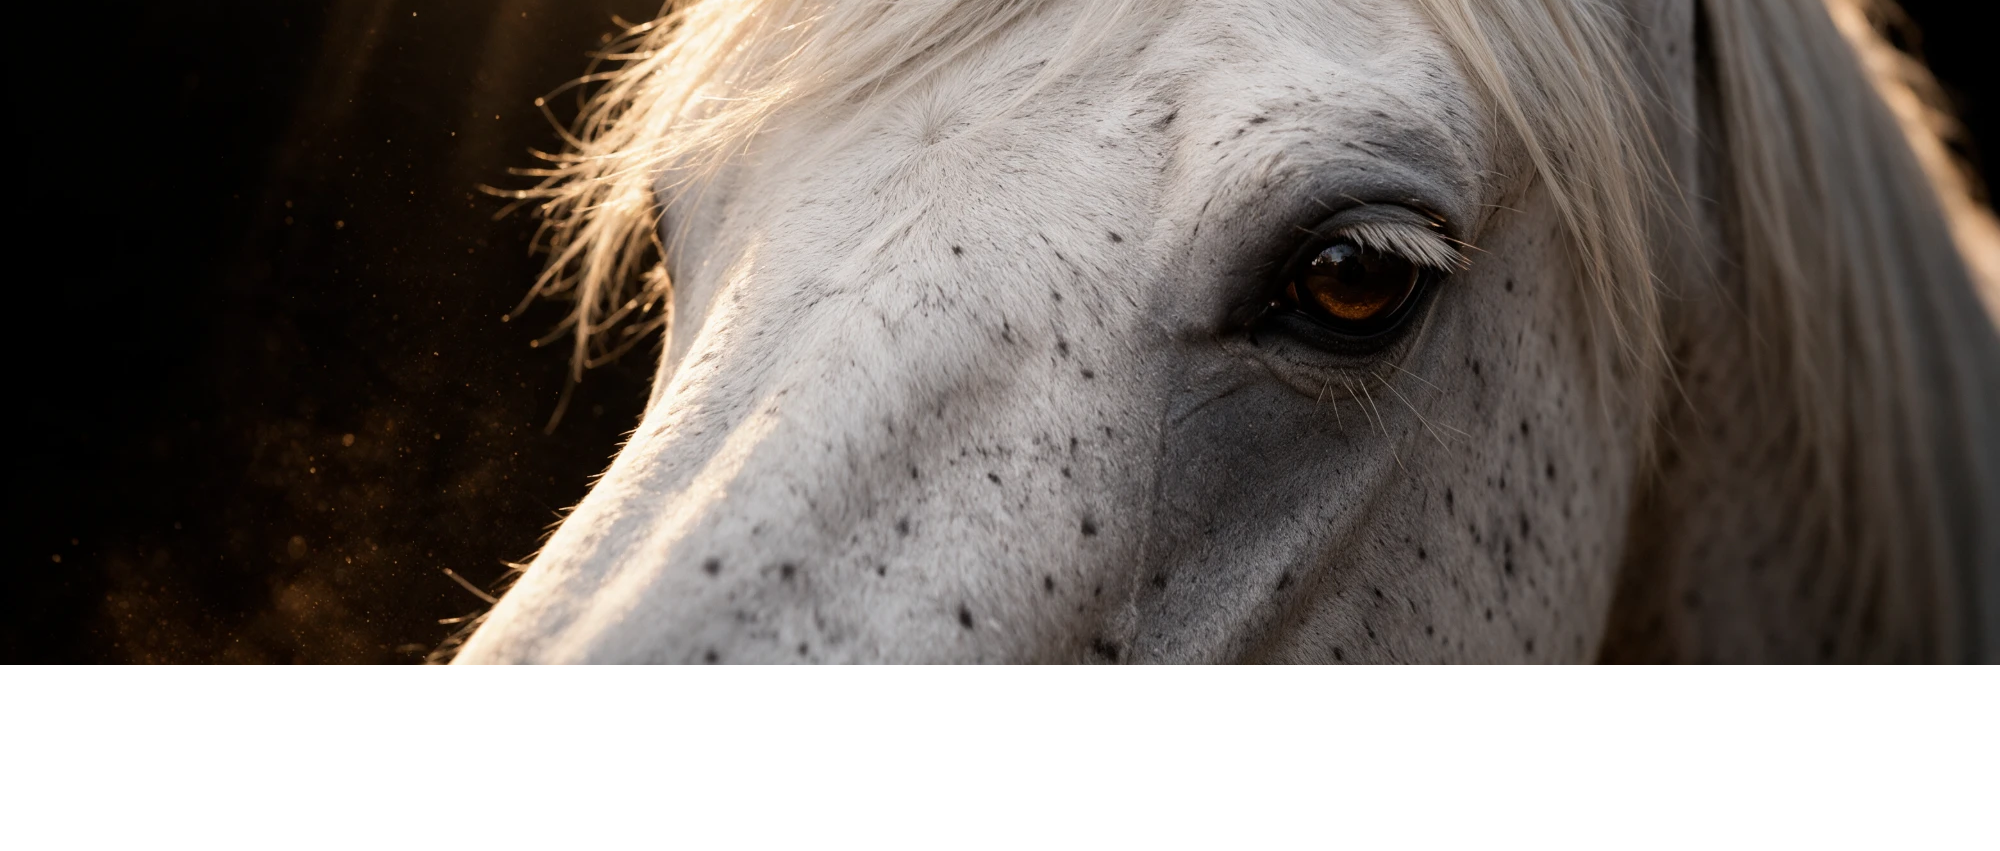
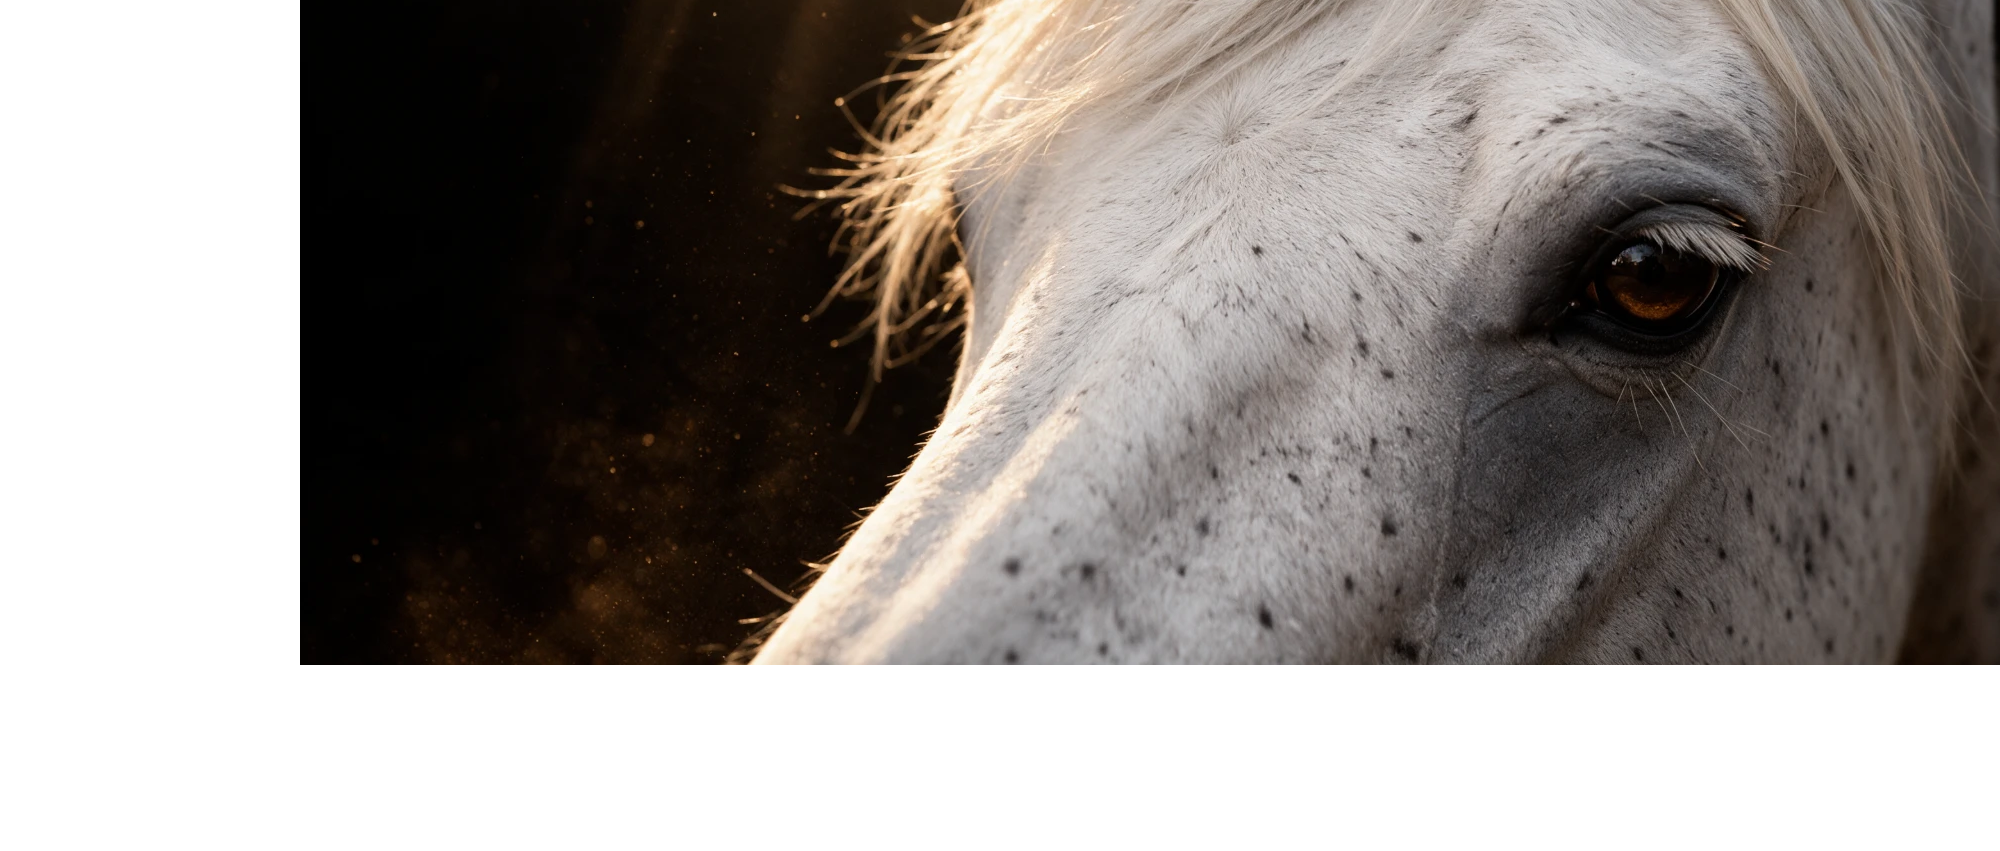
Shot 10: move the head right, keep the left half empty for titles
The reframe now also cuts 15% off the right and outpaints the same on
the left: the eye sits at 83% across, 33% down, and the left half is
empty darkness for the text. Canvas, guide, outpaint prompt, still
prompts and the motion prompt updated to match.

Claude-Session: https://claude.ai/code/session_016mJWmfYTbMSBBAqifNRpkM

diff --git a/HH_S10_STILL_PROMPT.md b/HH_S10_STILL_PROMPT.md
@@ -4,22 +4,22 @@ Save the result as **`HH_S10_v03.png`**: the shot 10 motion prompt uses it as th
 
 v02 came out right in look but too low: a near-profile at eye height with the nostrils in frame. v03 raises the camera above his eye line and frames higher on the head, like the client reference.
 
-## Reframe the v03 result (eye on the upper third)
+## Reframe the v03 result (eye on the upper third, text space on the left)
 
-The v03 result is right in angle and look, but the eye sits at 55% down, the vertical centre. Keep the image and move the frame down instead of generating again:
+The v03 result is right in angle and look, but the eye sits at 55% down, the vertical centre, and the dark space on the left is too narrow for titles. Keep the image and move the frame instead of generating again:
 
-1. Cut **21.9%** off the top (186 px on the 2000×851 file, 252 px on a 2688×1152 original).
-2. Extend the bottom by the same amount with outpainting (Photoshop Generative Expand, or Higgsfield outpaint). `HH_S10_v03_reframe_canvas.png` is the 2000×851 frame with the top already cut and the empty strip at the bottom.
-3. The eye then sits on the upper-right third: **67.8% across, 33.4% down**. The dark upper left, the shafts and the forelock across the top all stay. `HH_S10_v03_reframe_guide.png` shows before and after on a thirds grid.
+1. Cut **21.9%** off the top and **15%** off the right (186 px and 300 px on the 2000×851 file; 252 px and 403 px on a 2688×1152 original).
+2. Extend the left and the bottom by the same amounts with outpainting (Photoshop Generative Expand, or Higgsfield outpaint). `HH_S10_v03_reframe_canvas.png` is the 2000×851 frame with the image already moved and the empty strips on the left and bottom.
+3. The eye then sits far right and one third down: **82.8% across, 33.4% down**. His head fills the right half; the left half (about 45% of the width, top to two thirds down) is empty darkness for the text. The forelock still crosses the top. `HH_S10_v03_reframe_guide.png` shows before and after, with the text space marked.
 4. Save the result as `HH_S10_v03.png`: that is the first frame for the motion prompt.
 
-Outpaint prompt for the bottom strip:
+Outpaint prompt for the left and bottom strips:
 
 ```text
-Continue the photograph downward: the bridge of the horse's nose and his cheek in the same near-white coat with fine dark freckles, the same soft low warm light falling into shadow toward the bottom edge, the grey skin below the eye continuing down, the soft focus of the lower face. To the left of the nose, the same black background with faint warm gold dust. The nostrils and muzzle stay out of frame. Seamless with the image above, same grain.
+Continue the photograph to the left and downward. On the left: the same deep black background, empty and dark, with only faint warm gold dust and the faint sun shafts continuing from the top; nothing else. Below: the bridge of the horse's nose and his cheek in the same near-white coat with fine dark freckles, the same soft low warm light falling into shadow toward the bottom edge, the soft focus of the lower face; the nostrils and muzzle stay out of frame. Seamless with the image, same grain.
 ```
 
-If you generate again instead, Options A and B below already ask for the eye on the upper-right third.
+If you generate again instead, Options A and B below already ask for this layout.
 
 ## Generate
 
@@ -30,7 +30,7 @@ Attach as reference: `HH_S10_v02.png` (the first result: horse, light, dust and 
 For an image model that edits an attached image (Nano Banana, Seedream edit, etc.), with `HH_S10_v02.png` attached:
 
 ```text
-Same photograph, same horse, same light. Move the camera up and a little closer: it now looks down at his face from above his eye line at about 30°. We see the top of his forehead under the forelock and the bridge of his nose running down to the lower-left corner; the nostrils and muzzle are out of frame below. His near eye stays razor sharp on the right third, on the upper-right third, about 67% across and 33% down (one third down from the top), a little larger in the frame. Keep everything else exactly: the near-white freckled coat, the gold rim light on the forelock, lashes and brow, the warm catch-light in the eye, the sun shafts and dust in the dark upper left, the black background, 21:9.
+Same photograph, same horse, same light. Move the camera up and a little closer: it now looks down at his face from above his eye line at about 30°. We see the top of his forehead under the forelock and the bridge of his nose running down to the lower-left corner; the nostrils and muzzle are out of frame below. His near eye stays razor sharp, far right, about 83% across and 33% down (one third down from the top), a little larger in the frame; his head fills the right half and the left half is empty darkness. Keep everything else exactly: the near-white freckled coat, the gold rim light on the forelock, lashes and brow, the warm catch-light in the eye, faint sun shafts and dust in the empty dark left half, the black background, 21:9.
 ```
 
 ## Option B — full prompt
@@ -38,7 +38,7 @@ Same photograph, same horse, same light. Move the camera up and a little closer:
 ```text
 Extreme close-up of the grey stallion's head seen from above: the camera is higher than his eye, in front of him and to his side, looking down at his face at about 30°. His head is turned slightly toward the camera, so we see the top and front of his forehead and the bridge of his nose, not a flat profile. His near eye is large and sharp; his far eye is hidden beyond the curve of his forehead.
 
-FRAME: very close: his near eye is about a tenth of the frame width and sits on the upper-right third, about 67% across and 33% down (one third down from the top). The forelock falls across his forehead and the top edge of the frame; his ears are out of frame above. From the eye, the bridge of his nose runs down to the lower-left corner and leaves the frame there; the nostrils and muzzle are out of frame below. The upper left is deep darkness with faint sun shafts and dust; his cheek and jaw turn into shadow toward the right and bottom edges.
+FRAME: very close: his near eye is about a tenth of the frame width and sits far right, about 83% across and 33% down (one third down from the top). His head fills the right half of the frame. The forelock falls across his forehead and the top edge of the frame; his ears are out of frame above. From the eye, the bridge of his nose runs down to the bottom edge left of centre; the nostrils and muzzle are out of frame below; his cheek and mane are cut by the right edge. The left half of the frame is empty deep darkness with only faint sun shafts and dust: space for titles.
 
 LENS: a 100 mm macro lens, very shallow depth of field: the eye, its lashes and the skin around it razor sharp, the lower part of his face falling into soft blur.
 
@@ -52,8 +52,8 @@ LOOK: exactly the horse, light and colour of @HH_S10_v02, only the camera is hig
 ## Notes
 
 - If the result keeps the old low angle, the attached v02 is pulling it back. Run Option B again with `HH_S10_v01.png` attached instead, or with no reference.
-- Composition: the client reference has the eye near the centre. Here it is locked on the right third, so the face crosses the frame on a diagonal and the dark upper left stays free (it is also where the client's double exposure sits).
-- Screen direction: he faces left, while shot 09 runs right. A still, close portrait reads as a new moment, so the cut works. To keep the right-facing direction instead, flip the generated still horizontally before animating it; the eye then sits on the left third, about 35% across.
+- Composition: the client reference has the eye near the centre. Here the head sits in the right half with the eye far right, so the left half stays empty for the titles (it is also where the client's double exposure sits).
+- Screen direction: he faces left, while shot 09 runs right. A still, close portrait reads as a new moment, so the cut works. To keep the right-facing direction instead, flip the generated still horizontally before animating it; the eye then sits about 17% across and the text space moves to the right half.
 
 ---
 

diff --git a/SEEDANCE_PROMPTS.md b/SEEDANCE_PROMPTS.md
@@ -27,6 +27,7 @@ One prompt per shot, written to be pasted as-is into Seedance 2.5 on Higgsfield.
 - **v10, shot 11 new still and 50 mm.** The v02 still was long-legged, but the close 35 mm lens made his head about 38% of his height, which reads as short and squat. New still `HH_S11_v03` (`HH_S11_STILL_PROMPT.md`): a 50 mm look from about 10 m, one foreleg planted straight, explicit proportions. Blend v05 keeps the same pull-out with the lens and distances scaled (11.0 m to 28.6 m): 80% of the frame height at the start, 49% at 3 s, 38% at 5 s, 28% at 8 s. Lock `HH_S11_pullout50_0001-0192`.
 - **v9, shot 11 proportions.** The first pull-out take did not start on `HH_S11_v02` and redrew him stocky: shorter, thicker legs, big hooves, a wider body. The prompt had asked for his head, chest and forelegs to read largest and his chest and shoulders to be the widest part of him, and the shared horse block says heavy neck, deep chest. Shot 11 now has its own horse block with the still's build (legs as long as the body is deep, slender cannons, small hooves) and a lock line that he only gets smaller, never shorter. Put `HH_S11_v02` in the start-frame slot, and set the duration to 8 s.
 - **v8, shot 11 pull-out.** The new still `HH_S11_v02` came out with him filling about 82% of the frame height (chest dominant, belly hidden: the client note is solved). The camera now starts on that framing and pulls away faster than he runs: 35 mm, camera 1.48 m high, from 7.9 m to 20 m (horse root) with a 1 s ease-in. He shrinks to ~50% of the frame height by 3 s, ~38% by 5 s, ~29% by 8 s. Blend v04 (`HH_S11_apply_pullout.py`), lock `HH_S11_pullout_0001-0192`.
+- **v14, shot 10 moved right for titles.** The reframe also moves him right: the eye at about 83% across and 33% down, his head in the right half, the left half empty darkness for the text.
 - **v13, shot 10 eye on the upper third.** The v03 still was reframed (top cut, bottom extended) so the eye sits on the upper-right third, about 67% across and 33% down.
 - **v12, shot 10 from above.** The camera sits above his eye line and looks down at his face at about 30°: the forehead under the forelock and the bridge of the nose in view, the nostrils out of frame, the eye on the right third (about 65% across, 40% down). New first frame `HH_S10_v03`.
 - **v11, shot 10 replaced (client).** A very close, still portrait instead of the galloping eye shot: the head turned slightly toward the camera, the near eye locked on the right third, the wind in the forelock while he slowly closes and opens his eye. New first frame `HH_S10_v02` (`HH_S10_STILL_PROMPT.md`). The shot 10 built from the shot 03 take is no longer needed.
@@ -44,7 +45,7 @@ One prompt per shot, written to be pasted as-is into Seedance 2.5 on Higgsfield.
 | 07 | Very close: two heads, he leads and the dark bay falls behind | 14 | `HH_S07_v01.png`, `HH_S07_0001-0336.mp4`, `gallop_side_ref.mp4` | 22.3 s | 1015 words / 5676 chars |
 | 08 | The turn back: shot 5 mirrored | 11 | `HH_S08_start_v01.png`, `HH_S08_v01.png`, `gallop_side_ref.mp4` | 8.3 s | 1146 words / 6416 chars |
 | 09 | Very close: head and neck, galloping | 7 | `HH_S09_v01.png`, `gallop_side_ref.mp4` | 8.3 s | 894 words / 5017 chars |
-| 10 | Very close: the eye closes and opens (client version, standing) | 8 | `HH_S10_v03` | 0.0 s | 792 words / 4365 chars |
+| 10 | Very close: the eye closes and opens (client version, standing) | 8 | `HH_S10_v03` | 0.0 s | 826 words / 4523 chars |
 | 11 | He gallops straight at the camera, head-on (wide) | 8 | `HH_S11_v03`, `HH_S11_pullout50_0001-0192.mp4`, `gallop_side_ref.mp4` | 16.3 s | 1461 words / 8217 chars |
 
 ## Shot 02 — Close dust plate (title space) — 5 s
@@ -505,7 +506,7 @@ Grey Iberian stallion, standing still: near-white coat with fine dark flea-bitte
 
 CAMERA
 Locked off on a heavy tripod above his eye line, looking down at his face at about 30°, about 18° field of view (a 100 mm macro look), very shallow focus on the eye. The frame holds still for all 8 s, with only a barely perceptible organic float.
-FRAMING: exactly the first frame: seen from above, his head turned slightly toward the camera, the top of his forehead under the forelock and the bridge of his nose in view; his near eye on the upper-right third, about 67% across and 33% down; the forelock across his forehead and the top edge; the bridge of his nose running down to the lower-left corner, soft and out of focus, the nostrils out of frame below; deep darkness with faint sun shafts in the upper left; his cheek and jaw turning into shadow toward the right and bottom edges.
+FRAMING: exactly the first frame: seen from above, his head turned slightly toward the camera, the top of his forehead under the forelock and the bridge of his nose in view; his head fills the right half of the frame, his near eye far right, about 83% across and 33% down; the forelock across his forehead and the top edge; the bridge of his nose running down to the bottom edge left of centre, soft and out of focus, the nostrils out of frame below; his cheek and the mane cut by the right edge, turning into shadow. The left half of the frame is empty deep darkness with only faint dust and faint sun shafts: space for titles.
 
 ACTION
 0.0–2.0s — The first frame comes alive: he stands still, his eye open and calm. A steady breeze from behind lifts the forelock and loose strands of the mane across the top of the frame; single hairs drift across his brow; the skin of his cheek and above his eye rises and falls with one slow breath.
@@ -530,9 +531,9 @@ SOUND
 Only: a soft wind, one slow calm breath, the faint hiss of drifting sand. No music, no voices.
 
 KEEP CONSISTENT
-- He stands still: his head stays in the same place for all 8 s, the near eye on the right third (about 67% across, 33% down); only breathing and the wind move him.
+- He stands still: his head stays in the same place for all 8 s, the near eye far right (about 83% across, 33% down); only breathing and the wind move him.
 - The eye closes once and opens once, both slowly; only the near eye is visible.
-- The frame holds still; the background stays black darkness, faint shafts and dust.
+- The frame holds still; the background stays black darkness, faint shafts and dust; the left half stays empty and dark, only flyaway hairs and dust drift into it.
 - Forelock, mane and dust move in every frame.
 - He is the only living thing in the frame.
 - One continuous shot, no cuts, no on-screen text.

diff --git a/EDIT_PLAN.md b/EDIT_PLAN.md
@@ -14,10 +14,10 @@ Everything runs at 24 fps and 21:9. Times are seconds on the timeline from the f
 | 07 | 43–57 | 14 | shot 07 take | 0.0 → 14.0 | Two heads, heading left. |
 | 08 | 57–68 | 11 | **`HH_S08_from_S05.mp4`** (built from `SHOT 5.mp4`) | 0.0 → 11.0 | The turn back, left → right. Mirrored, eased speed ramp. |
 | 09 | 68–75 | 7 | **`HH_S09_from_S03.mp4`** (built from `shot 3.mp4`) | 0.0 → 7.0 | Heading right. Not mirrored, 1.3× punch-in. |
-| 10 | 75–83 | 8 | shot 10 take (client version, from `HH_S10_v03`) | 0.0 → 8.0 | Extreme close-up from above, standing still: he slowly closes and opens his eye in the wind. Eye on the upper-right third (67%, 33%), reframed with an outpainted bottom. |
+| 10 | 75–83 | 8 | shot 10 take (client version, from `HH_S10_v03`) | 0.0 → 8.0 | Extreme close-up from above, standing still: he slowly closes and opens his eye in the wind. Head in the right half, eye at 83% across, 33% down; the left half is empty for titles. Reframed with outpainted left and bottom strips. |
 | 11 | 83–91 | 8 | shot 11 take (wide, 50 mm look, from `HH_S11_v03`) | 0.0 → 8.0 | Ends on a frame full of dust (7–8 s). |
 
-All hard cuts. Screen direction holds across the running shots: right (03–05 in), left (05 out–08 in), right (08 out–09), head-on (11). Shot 10 is a still portrait facing left, which reads as a new moment after shot 09; to keep it facing right, flip `HH_S10_v03` before animating it (the eye then sits on the left third). For rhythm, cut the running shots on a hoof strike: one full stride is 1.8 s in every shot.
+All hard cuts. Screen direction holds across the running shots: right (03–05 in), left (05 out–08 in), right (08 out–09), head-on (11). Shot 10 is a still portrait facing left, which reads as a new moment after shot 09; to keep it facing right, flip `HH_S10_v03` before animating it (the eye and head then sit on the left, the text space on the right). For rhythm, cut the running shots on a hoof strike: one full stride is 1.8 s in every shot.
 
 ## Shot 08 from the shot 05 take — built: `HH_S08_from_S05.mp4`
 
